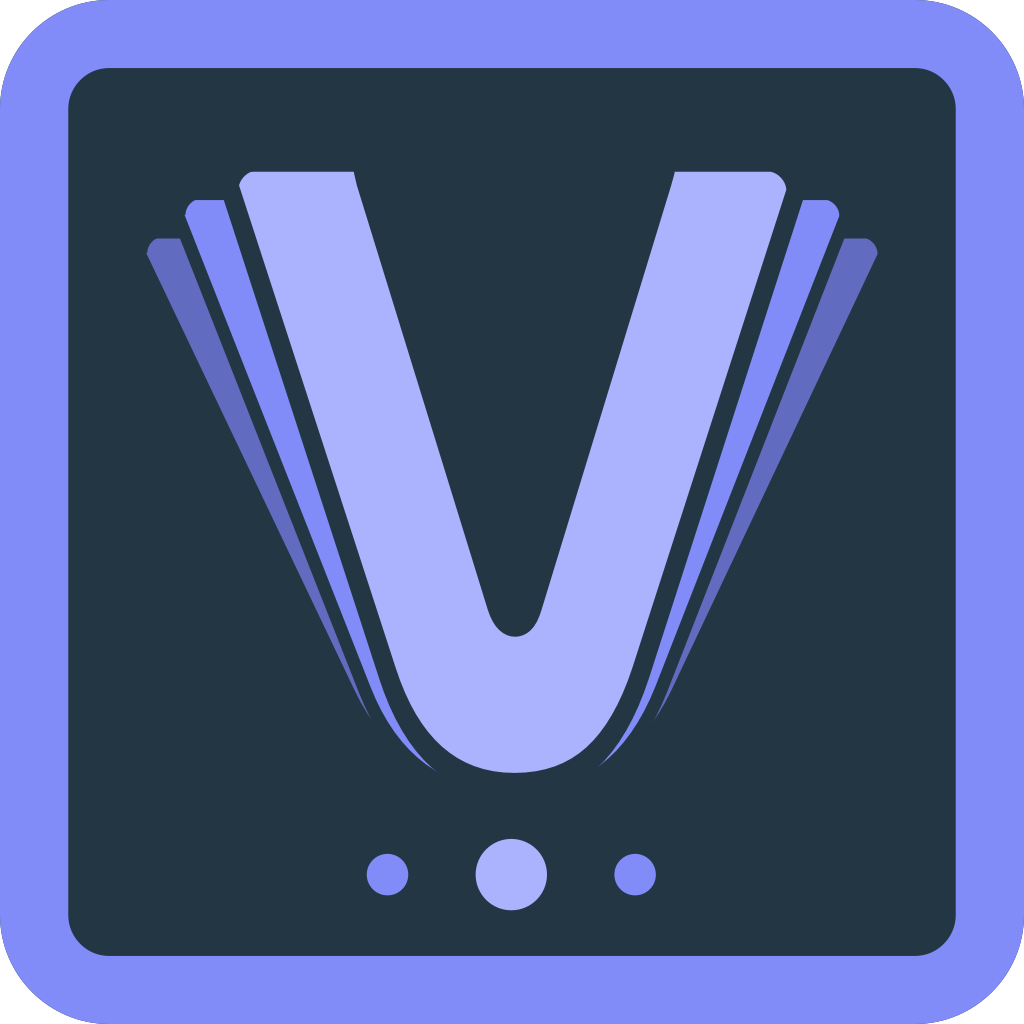
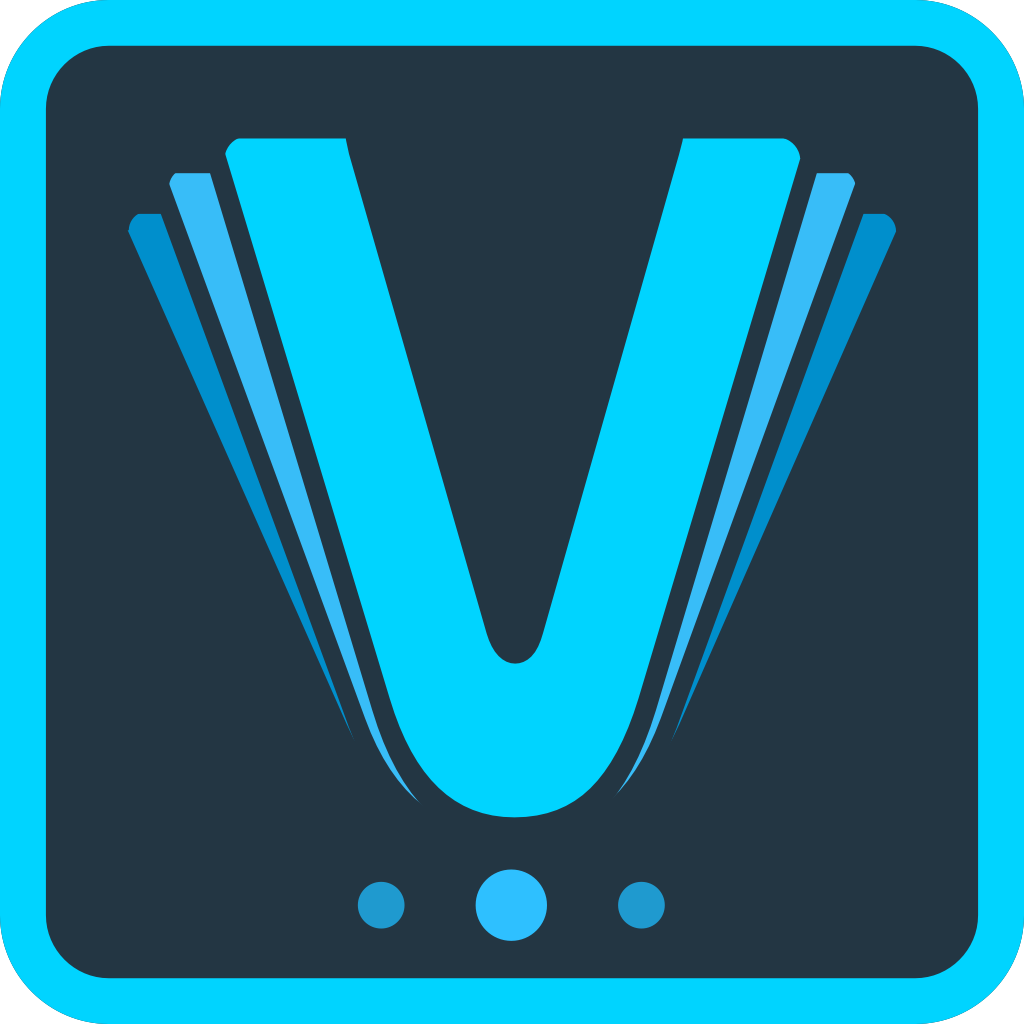
feat(viewer): real OS fullscreen and polish immersive chrome
Enter fullscreen via Electron setFullScreen while keeping immersive UI.
Raise exit/zoom controls, sync zoom badge with HUD auto-hide, and refresh app icons.

diff --git a/js/app.js b/js/app.js
@@ -2416,15 +2416,18 @@ function updateZoomHUD() {
   $('zoom-pct').textContent = pct + '%';
   const slider = $('zoom-slider');
   if (slider) slider.value = zoomToSlider(state.zoom);
-  // Floating HUD only in fullscreen; statusbar zoom-% always updates
+  // Floating zoom badge only in fullscreen; statusbar zoom-% always updates
+  if (!zoomHud) return;
   if (!state.isGhost) {
-    zoomHud.classList.remove('visible');
+    zoomHud.classList.remove('visible', 'hud-hidden-fade');
     clearTimeout(state.zoomTimer);
     return;
   }
+  // Show with the rest of the floating HUD and share the same auto-hide timer
   zoomHud.classList.add('visible');
+  zoomHud.classList.remove('hud-hidden-fade');
   clearTimeout(state.zoomTimer);
-  state.zoomTimer = setTimeout(() => zoomHud.classList.remove('visible'), 1200);
+  if (typeof resetHudTimer === 'function') resetHudTimer();
 }
 
 $('zoom-slider').addEventListener('input', (e) => {
@@ -3250,35 +3253,81 @@ if (sidebarHandleEl) {
   });
 }
 
-// ── FULLSCREEN ──
-function toggleFullscreen() {
+// ── FULLSCREEN (OS exclusive + immersive ghost UI) ──
+/**
+ * Apply immersive UI (hide chrome, floating HUD). Internal name remains ghost-mode
+ * for CSS compatibility; user-facing label is Fullscreen.
+ * @param {boolean} on
+ * @param {{ skipOs?: boolean }} [opts]
+ */
+function applyImmersiveFullscreen(on, opts = {}) {
+  const want = !!on;
+  if (state.isGhost === want) {
+    // Still reflow image if size may have changed (e.g. OS fullscreen settled)
+    scheduleFullscreenRefit();
+    return;
+  }
+
   document.body.classList.add('no-hud-transition');
-  
-  state.isGhost = !state.isGhost;
-  if (state.isGhost) state.isCropping = false; // AISLAMIENTO TOTAL
-  document.body.classList.toggle('ghost-mode', state.isGhost);
+  state.isGhost = want;
+  if (want) state.isCropping = false; // AISLAMIENTO TOTAL
+  document.body.classList.toggle('ghost-mode', want);
   updateHUDStates();
-  resetHudTimer();
-  
+  if (typeof resetHudTimer === 'function') resetHudTimer();
+
   // Forzar reflow para aplicar los cambios de layout instantáneamente sin animación
   document.body.offsetHeight;
-  
+
+  scheduleFullscreenRefit();
+
+  // OS exclusive fullscreen (Electron) or Fullscreen API (browser fallback)
+  if (!opts.skipOs) {
+    if (isElectron && window.electronAPI && typeof window.electronAPI.setFullScreen === 'function') {
+      window.electronAPI.setFullScreen(want).catch((err) => {
+        console.error('setFullScreen failed:', err);
+      });
+    } else if (typeof document !== 'undefined') {
+      try {
+        if (want) {
+          const el = document.documentElement;
+          if (el && el.requestFullscreen && !document.fullscreenElement) {
+            el.requestFullscreen().catch(() => { /* ignore */ });
+          }
+        } else if (document.fullscreenElement && document.exitFullscreen) {
+          document.exitFullscreen().catch(() => { /* ignore */ });
+        }
+      } catch (_) { /* ignore */ }
+    }
+  }
+}
+
+function scheduleFullscreenRefit() {
   setTimeout(() => {
     document.body.classList.remove('no-hud-transition');
     const im = state.images[state.current];
-    if (im) {
-      if (state.viewMode === 'original') {
-        state.zoom = 1;
-        state.panX = 0;
-        state.panY = 0;
-        applyTransform(false);
-      } else if (state.viewMode === 'fit') {
-        fitToWindow(im.w, im.h);
-      } else {
-        applyTransform(false);
-      }
+    if (!im) return;
+    if (state.viewMode === 'original') {
+      state.zoom = 1;
+      state.panX = 0;
+      state.panY = 0;
+      applyTransform(false);
+    } else if (state.viewMode === 'fit') {
+      fitToWindow(im.w, im.h);
+    } else {
+      applyTransform(false);
     }
   }, 100);
+}
+
+function toggleFullscreen() {
+  applyImmersiveFullscreen(!state.isGhost);
+}
+
+// Browser / non-Electron: keep UI in sync with Fullscreen API
+if (typeof document !== 'undefined' && !isElectron) {
+  document.addEventListener('fullscreenchange', () => {
+    applyImmersiveFullscreen(!!document.fullscreenElement, { skipOs: true });
+  });
 }
 
 // ── DRAG & DROP ──
@@ -3611,6 +3660,14 @@ if (isElectron) {
     suppressTooltips();
     releaseTooltipsOnNextPointer();
   });
+
+  // Keep immersive UI in sync if OS fullscreen ends/starts externally
+  if (typeof window.electronAPI.onFullscreenChanged === 'function') {
+    window.electronAPI.onFullscreenChanged((isFs) => {
+      // skipOs: main already changed exclusive fullscreen state
+      applyImmersiveFullscreen(isFs, { skipOs: true });
+    });
+  }
 
   window.electronAPI.onOpenFile(async path => {
     // 1. Escanear la carpeta para obtener vecinos
@@ -4106,6 +4163,7 @@ const elementsToHide = [
   { el: $('statusbar'), hideClass: 'hud-hidden-bottom', ghostOnly: false },
   { el: $('kbd-hint'), hideClass: 'hud-hidden', ghostOnly: true },
   { el: $('ghost-close'), hideClass: 'hud-hidden-fade', ghostOnly: true },
+  { el: $('zoom-hud'), hideClass: 'hud-hidden-fade', ghostOnly: true },
   { el: $('viewer-filename'), hideClass: 'hud-hidden-fade', ghostOnly: false },
   { el: $('nav-container'), hideClass: 'hud-hidden-fade', ghostOnly: false }
 ];
@@ -4121,6 +4179,8 @@ function resetHudTimer() {
     if (kbd && state.isGhost) kbd.classList.add('hud-hidden');
     const nav = $('nav-container');
     if (nav) nav.classList.add('hud-hidden-fade');
+    const zh = $('zoom-hud');
+    if (zh && state.isGhost) zh.classList.add('hud-hidden-fade');
     return;
   }
 
@@ -4130,6 +4190,10 @@ function resetHudTimer() {
     // Ensure docked toolbar never stays hidden after leaving fullscreen
     if (item.el.id === 'kbd-hint' && !state.isGhost) {
       item.el.classList.remove('hud-hidden', 'hud-hidden-fade');
+    }
+    // Zoom badge only reappears after a zoom gesture (class "visible"), not on every mouse move
+    if (item.el.id === 'zoom-hud' && !item.el.classList.contains('visible')) {
+      item.el.classList.add('hud-hidden-fade');
     }
   });
 
@@ -4163,6 +4227,10 @@ function resetHudTimer() {
       const isTopbarOrStatusbar = (item.el.id === 'topbar' || item.el.id === 'statusbar');
       if (isTopbarOrStatusbar && !state.isGhost) return;
       item.el.classList.add(item.hideClass);
+      // Clear sticky "visible" so mouse-move doesn't flash zoom again until next zoom
+      if (item.el.id === 'zoom-hud') {
+        item.el.classList.remove('visible');
+      }
     });
   }, delay);
 }

diff --git a/main.js b/main.js
@@ -190,6 +190,9 @@ function resolveStartupBounds(settings) {
 function persistWindowState() {
   if (!win || win.isDestroyed()) return;
   try {
+    // Do not persist exclusive-fullscreen metrics as normal window bounds
+    if (typeof win.isFullScreen === 'function' && win.isFullScreen()) return;
+
     const isMax = win.isMaximized();
     // Live bounds identify the monitor even while maximized
     const live = win.getBounds();
@@ -270,7 +273,10 @@ function createWindow() {
     if (persistTimer) clearTimeout(persistTimer);
     persistTimer = setTimeout(() => {
       persistTimer = null;
-      if (!win.isMaximized()) persistWindowState();
+      if (!win || win.isDestroyed()) return;
+      if (win.isMaximized()) return;
+      if (typeof win.isFullScreen === 'function' && win.isFullScreen()) return;
+      persistWindowState();
     }, 400);
   };
   win.on('move', schedulePersist);
@@ -379,10 +385,13 @@ function createWindow() {
     persistWindowState();
   });
   win.on('unmaximize', () => {
+    // Ignore transient unmaximize while entering exclusive fullscreen
+    if (typeof win.isFullScreen === 'function' && win.isFullScreen()) return;
     win.webContents.send('win-state', 'normal');
     // Re-clamp after unmaximize — Windows/DPI often restores oversized bounds
     setTimeout(() => {
       if (!win || win.isDestroyed() || win.isMaximized()) return;
+      if (typeof win.isFullScreen === 'function' && win.isFullScreen()) return;
       try {
         const raw = win.getBounds();
         const clamped = clampWindowBounds(raw, {
@@ -401,6 +410,21 @@ function createWindow() {
       } catch (_) { /* ignore */ }
       persistWindowState();
     }, 0);
+  });
+
+  // OS exclusive fullscreen ↔ renderer immersive (ghost) UI
+  win.on('enter-full-screen', () => {
+    if (!win || win.isDestroyed()) return;
+    win.webContents.send('fullscreen-changed', true);
+  });
+  win.on('leave-full-screen', () => {
+    if (!win || win.isDestroyed()) return;
+    win.webContents.send('fullscreen-changed', false);
+    // Restore maximize glyph after exclusive fullscreen ends
+    try {
+      win.webContents.send('win-state', win.isMaximized() ? 'maximized' : 'normal');
+    } catch (_) { /* ignore */ }
+    persistWindowState();
   });
 
   win.webContents.setWindowOpenHandler(({ url }) => {
@@ -471,12 +495,42 @@ function createTray() {
 
 // ── IPC ──
 ipcMain.on('win-minimize', () => win.minimize());
-ipcMain.on('win-maximize', () => (win.isMaximized() ? win.unmaximize() : win.maximize()));
+ipcMain.on('win-maximize', () => {
+  if (!win || win.isDestroyed()) return;
+  // Leave exclusive fullscreen before toggle maximize/restore
+  if (typeof win.isFullScreen === 'function' && win.isFullScreen()) {
+    win.setFullScreen(false);
+  }
+  if (win.isMaximized()) win.unmaximize();
+  else win.maximize();
+});
 ipcMain.on('win-close', () => win.close());
 ipcMain.on('win-devtools', () => {
   // DevTools only outside packaged builds
   if (!app.isPackaged && win && !win.isDestroyed()) {
     win.webContents.openDevTools();
+  }
+});
+
+ipcMain.handle('win-set-fullscreen', (event, flag) => {
+  if (!win || win.isDestroyed()) return false;
+  const want = !!flag;
+  try {
+    if (win.isFullScreen() === want) return want;
+    win.setFullScreen(want);
+    return win.isFullScreen();
+  } catch (e) {
+    console.error('setFullScreen failed:', e);
+    return false;
+  }
+});
+
+ipcMain.handle('win-is-fullscreen', () => {
+  if (!win || win.isDestroyed()) return false;
+  try {
+    return !!win.isFullScreen();
+  } catch (_) {
+    return false;
   }
 });
 

diff --git a/css/app.css b/css/app.css
@@ -243,8 +243,10 @@
   body:not(.ghost-mode) #zoom-hud {
     display: none !important;
   }
+  /* Stack under exit (X): 16 + 32 + 8 gap = 56 */
   body.ghost-mode #zoom-hud {
-    top: 120px;
+    top: 56px;
+    right: 20px;
   }
 
   /* ── CYBER STATUSBAR TOOLTIPS ── */
@@ -741,8 +743,9 @@
   
   #ghost-close {
     position: fixed;
-    top: 76px;
-    right: 32px;
+    /* True fullscreen has no title bar — keep controls near the top-right edge */
+    top: 16px;
+    right: 20px;
     width: 32px;
     height: 32px;
     background: rgba(13, 17, 23, 0.85);
@@ -1528,15 +1531,17 @@
     flex-shrink: 0;
   }
 
-  /* ── ZOOM HUD ── */
+  /* ── ZOOM HUD (fullscreen floating; auto-hide synced with other HUD) ── */
   #zoom-hud {
     position: absolute;
     top: 12px;
-    right: 32px;
+    right: 20px;
     z-index: 6;
+    min-height: 32px;
+    box-sizing: border-box;
     background: rgba(13,17,23,0.9);
     border: 1px solid var(--cyber-border);
-    border-radius: 3px;
+    border-radius: 4px;
     padding: 6px 10px;
     font-family: var(--font-ui);
     font-weight: 700;
@@ -1546,13 +1551,17 @@
     color: var(--cyber-accent);
     pointer-events: none;
     opacity: 0;
-    transition: opacity 300ms ease;
+    transition: opacity 0.4s ease;
     display: flex;
     align-items: center;
     gap: 6px;
   }
 
   #zoom-hud.visible { opacity: 1; }
+  /* Same fade used by ghost-close / nav when HUD auto-hides */
+  #zoom-hud.hud-hidden-fade {
+    opacity: 0 !important;
+  }
 
   #radar-wrapper {
     display: flex;

diff --git a/preload.js b/preload.js
@@ -6,7 +6,14 @@ contextBridge.exposeInMainWorld('electronAPI', {
   minimize: () => ipcRenderer.send('win-minimize'),
   maximize: () => ipcRenderer.send('win-maximize'),
   close: () => ipcRenderer.send('win-close'),
+  setFullScreen: (flag) => ipcRenderer.invoke('win-set-fullscreen', !!flag),
+  isFullScreen: () => ipcRenderer.invoke('win-is-fullscreen'),
   onWinState: (cb) => ipcRenderer.on('win-state', (_, state) => cb(state)),
+  onFullscreenChanged: (cb) => {
+    const handler = (_, isFs) => cb(!!isFs);
+    ipcRenderer.on('fullscreen-changed', handler);
+    return () => ipcRenderer.removeListener('fullscreen-changed', handler);
+  },
 
   getSettings: () => ipcRenderer.invoke('get-settings'),
   getVersion: () => ipcRenderer.invoke('get-version'),